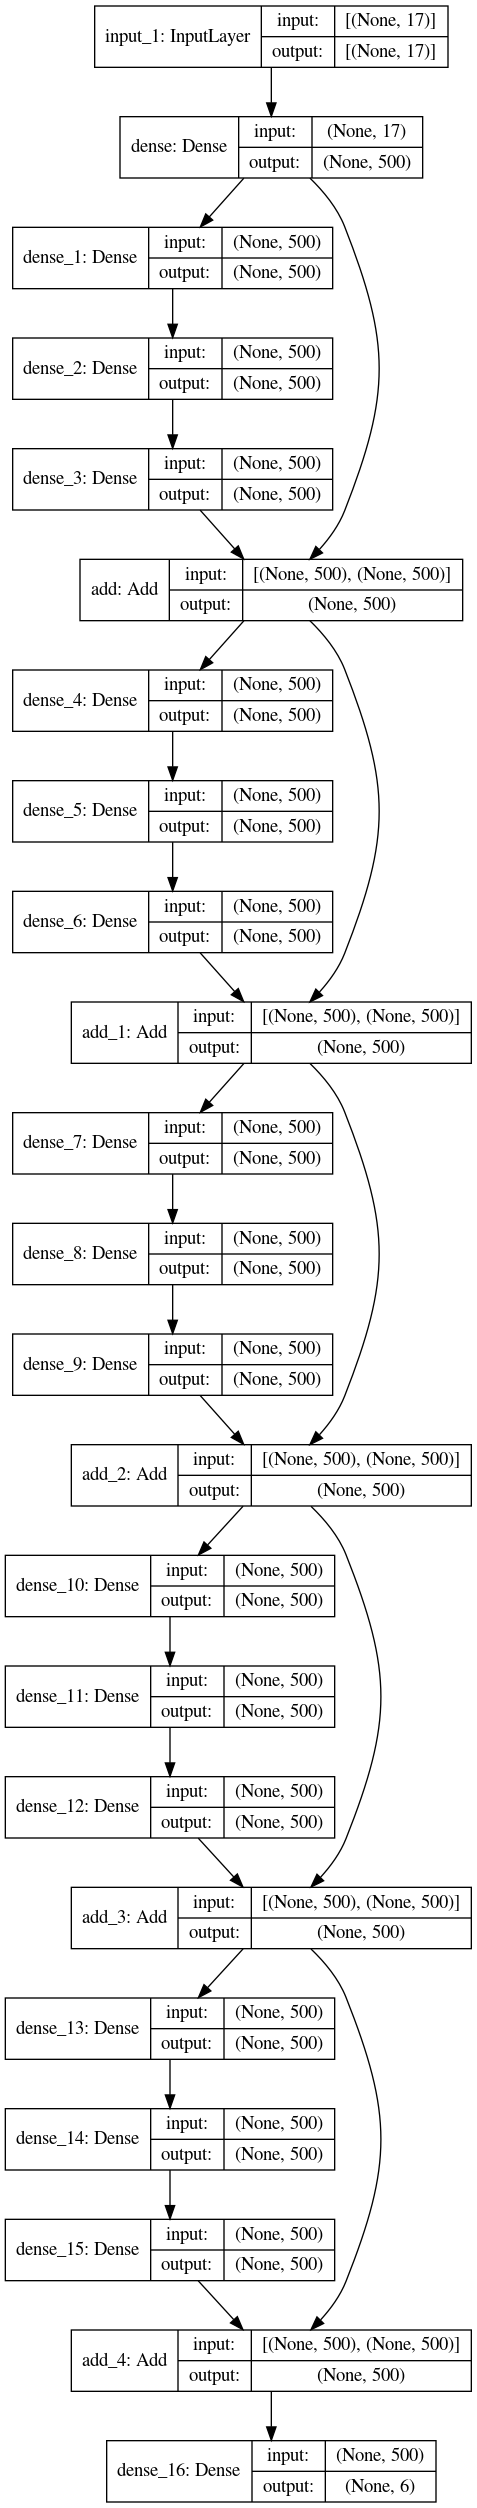
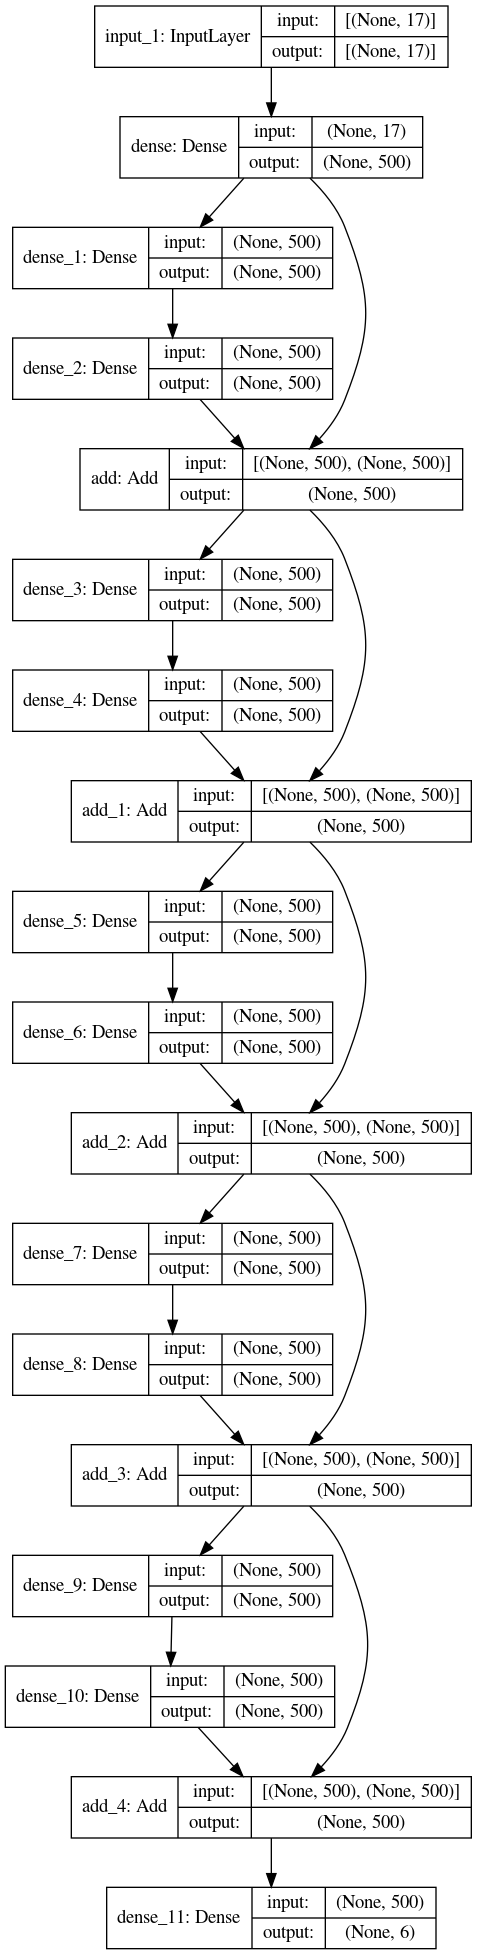
add more params to model and change the way to create models.

diff --git a/neuromax.py b/neuromax.py
@@ -21,14 +21,16 @@ TIMESTAMP = str(time.time())
 ROOT = os.path.abspath(".")
 # model
 BLOCKS_PER_RESNET = 4
-NUMBER_LAYERS = 3
+LAYERS_PER_BLOCK = 2
 # predictor :: input => position+velocity prediction shape(num_atoms, 6)
 UNITS_PREDICTOR = 500
-PREDICTOR_RECIPE = [(500, "tanh"), (6, "relu")]
+PREDICTOR_RECIPE = [(UNITS_PREDICTOR, "tanh"), (6, "relu")]
 # actor     :: input, prediction => potentials shape(None, 3)
-ACTOR_RECIPE = [(17 + 6, "selu"), (3, "tanh")]
+UNITS_ACTOR = 500
+ACTOR_RECIPE = [(UNITS_ACTOR, "selu"), (3, "tanh")]
 # critic    :: state, prediction, action => reward prediction shape(1)
-CRITIC_RECIPE = [(17 + 6 + 3, "tanh"), (1, "tanh")]
+UNITS_CRITIC = 500
+CRITIC_RECIPE = [(UNITS_CRITIC, "tanh"), (1, "tanh")]
 # task
 MAX_UNDOCK_DISTANCE = 100
 MIN_UNDOCK_DISTANCE = 10
@@ -311,7 +313,7 @@ def make_layer(tuple, tensor):
 
 def make_block(array, prior):
     output = make_layer(array[0], prior)
-    for i in range(1, NUMBER_LAYERS):
+    for i in range(1, LAYERS_PER_BLOCK):
         output = make_layer(array[0], output)
     return add([output, prior])
 
@@ -331,12 +333,18 @@ def make_agent(num_features):
     predictor, prediction = make_resnet(PREDICTOR_RECIPE, predictor_first_layer,
                                                         name = 'predictor.png',
                                                         initial_input = input)
-    actor_input = concatenate([input, prediction])
-    actor, action = make_resnet(ACTOR_RECIPE, prediction, name = 'actor.png')
-    critic_input = concat([actor_input, action])
-    critic, criticism = make_resnet(CRITIC_RECIPE, critic_input, name = 'critic.png')
+    actor_input = Input(num_features + 6)
+    actor_first_layer = Dense(units = UNITS_PREDICTOR, activation = 'tanh')(actor_input)
+    actor, action = make_resnet(ACTOR_RECIPE, actor_first_layer,
+                                            name = 'actor.png',
+                                            initial_input = actor_input)
+    critic_input = Input(num_features + 6 +3)
+    critic_first_layer = Dense(units = UNITS_PREDICTOR, activation = 'tanh')(critic_input)
+    critic, criticism = make_resnet(CRITIC_RECIPE, critic_first_layer,
+                                                name = 'critic.png',
+                                                initial_input =critic_input)
     agent = Model(input, [prediction, action, criticism])
-    plot_model(agent, show_shapes=True)
+    plot_model(agent, "agent.png",show_shapes=True)
     return predictor, actor, critic, agent
 
 def train():
